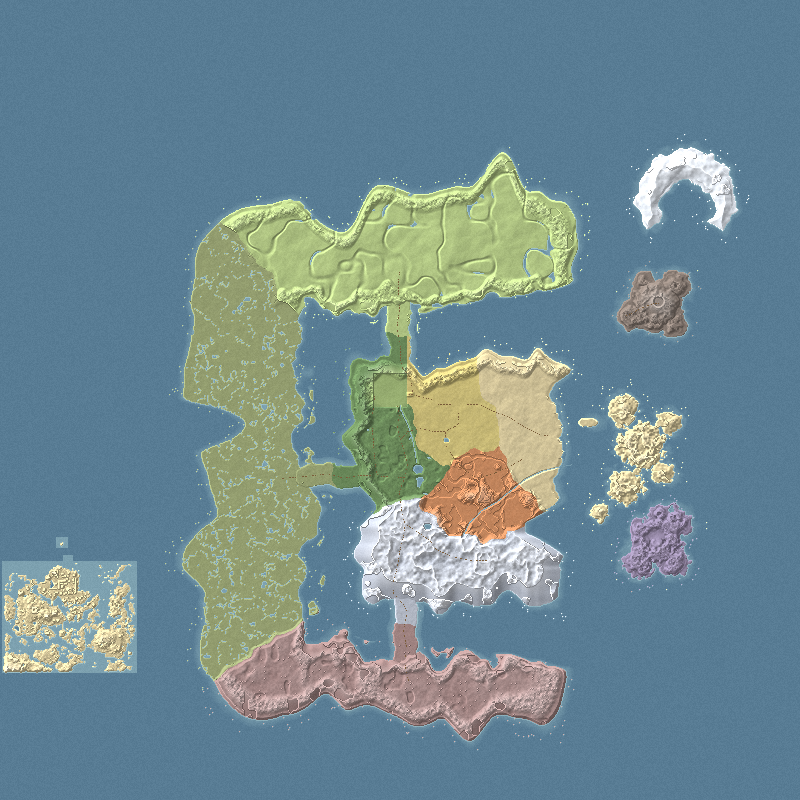
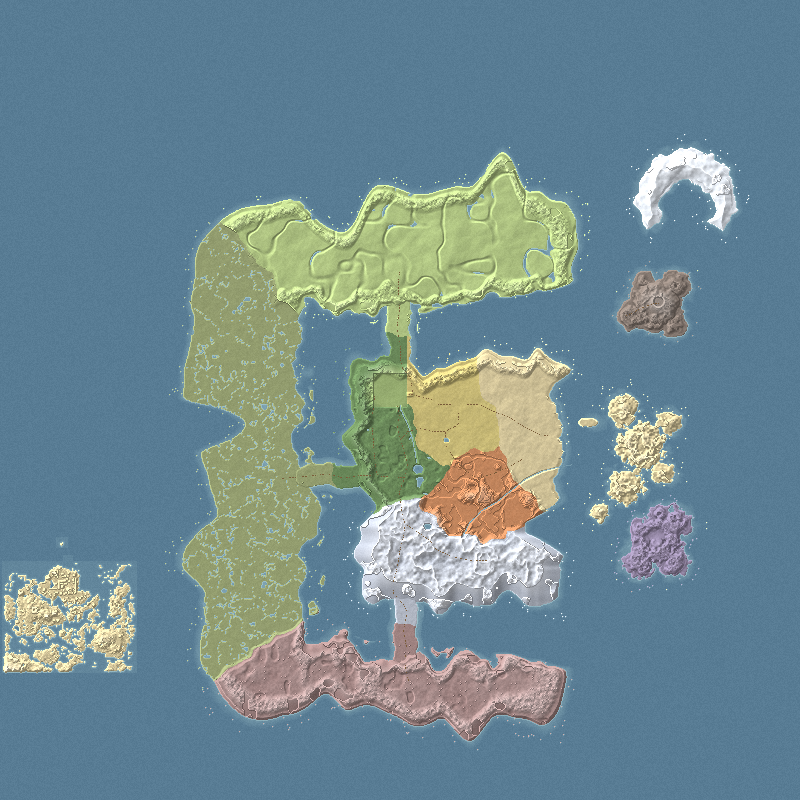
Charts: Verandah's water deepens away from its shore like any other sea, so the island no longer sits on a pale square of shallows on the map.

Changed region(s): [[0.0, 0.6562, 0.1875, 0.8438]]

diff --git a/src/world/atlas.ts b/src/world/atlas.ts
@@ -2,6 +2,7 @@ import { createSeededRandom } from '../utils/random';
 import { smoothstep } from './noise';
 import { baseHeight, lakeDist, regionAt, RegionId, riverDist, roadDist, SEA } from './terrain';
 import { WMIN, WSIZE } from './VoxelWorld';
+import { inMcLand } from './mcland';
 
 // The Charter's chart of the continent: what every map in the realm shows before you have walked
 // it. Painted once, at low resolution, from the terrain functions: the sea and the coast, each
@@ -48,6 +49,17 @@ export function chartPixels(size: number, x0 = WMIN): Uint8ClampedArray {
   const step = WSIZE / size;
   const h = new Float32Array(size * size);
   for (let j = 0; j < size; j++) for (let i = 0; i < size; i++) h[j * size + i] = baseHeight(x0 + (i + 0.5) * step, WMIN + (j + 0.5) * step);
+  // The owner's builds keep their water as a flat sheet just under the sea's level, so it would chart as a pale
+  // square of shallows round Verandah: there the sea deepens with the distance from land as it does off any coast
+  const far = new Float32Array(size * size).fill(1e9), mc = new Uint8Array(size * size);
+  for (let j = 0; j < size; j++) for (let i = 0; i < size; i++) {
+    const k = j * size + i;
+    if (h[k] > SEA) far[k] = 0;
+    else if (inMcLand(x0 + (i + 0.5) * step, WMIN + (j + 0.5) * step)) mc[k] = 1;
+  }
+  for (let j = 0; j < size; j++) for (let i = 0; i < size; i++) { const k = j * size + i; if (i > 0) far[k] = Math.min(far[k], far[k - 1] + 1); if (j > 0) far[k] = Math.min(far[k], far[k - size] + 1); if (i > 0 && j > 0) far[k] = Math.min(far[k], far[k - size - 1] + 1.41); if (j > 0 && i < size - 1) far[k] = Math.min(far[k], far[k - size + 1] + 1.41); }
+  for (let j = size - 1; j >= 0; j--) for (let i = size - 1; i >= 0; i--) { const k = j * size + i; if (i < size - 1) far[k] = Math.min(far[k], far[k + 1] + 1); if (j < size - 1) far[k] = Math.min(far[k], far[k + size] + 1); if (i < size - 1 && j < size - 1) far[k] = Math.min(far[k], far[k + size + 1] + 1.41); if (j < size - 1 && i > 0) far[k] = Math.min(far[k], far[k + size - 1] + 1.41); }
+  for (let k = 0; k < size * size; k++) if (mc[k]) h[k] = Math.min(h[k], SEA - Math.min(9, 1 + far[k] * step * 0.3));
   const data = new Uint8ClampedArray(size * size * 4);
   const rnd = createSeededRandom(4242);
   for (let j = 0; j < size; j++) for (let i = 0; i < size; i++) {
